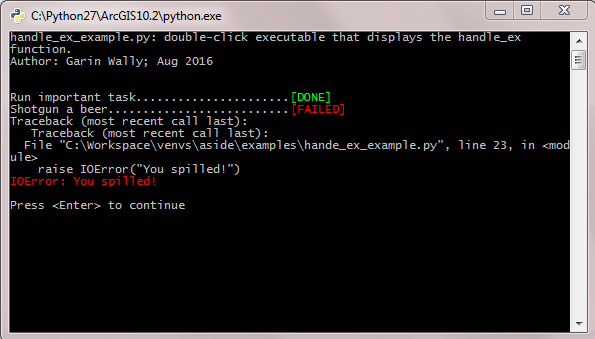
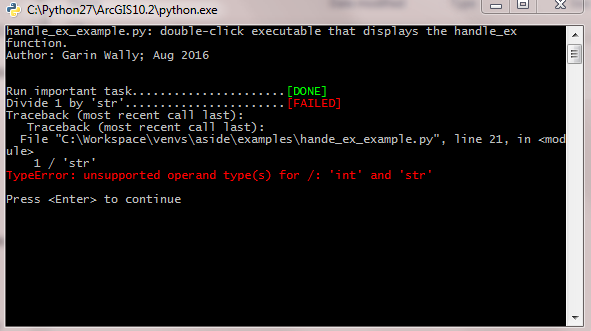
readme needs improvement

Changed region(s): [[0.0, 0.0, 1.0, 1.0]]

diff --git a/examples/status_example.py b/examples/status_example.py
@@ -11,15 +11,15 @@ from aside import status, status_process, wait
 
 print(__doc__)
 
-status.write("Imporing Wayne Campbell...")
+status.write("Party on magenta 'excellent'...")
 sleep(2)
-status.custom("Excellent", "magenta")
+status.custom("Excellent!", "magenta")
 
-status.write("Cha!")
+status.write("Cha! Standard success...")
 status.success()
 
 
-status.custom("Sha-WING", "cyan")
+status.custom("custom Sha-WING status", "cyan")
 
 @status_process
 def stairway():

diff --git a/examples/hande_ex_example.py b/examples/hande_ex_example.py
@@ -16,10 +16,10 @@ status.write("Run important task...")
 sleep(2)
 status.success()
 
-status.write("Shotgun a beer...")
-status.failure()
-
 try:
-    raise IOError("You spilled!")
-except IOError:
+    status.write("Divide 1 by 'str'...")
+    1 / 'str'
+    status.success()
+except:
+    status.failure()
     handle_ex()

diff --git a/README.rst b/README.rst
@@ -6,7 +6,8 @@ aside is a package for displaying nice shell messages when processes are being a
 Specifically, this package is designed for scripts which are executed by double-clicking.
 
 When created double-click executable Python source code that just closes whenever it feels like it,
-it might be useful to hang the process so the user can see what happened. Queue the wait() and handle_ex()
-functions:
+it might be useful to hang the process so the user can see what happened. The wait() and handle_ex()
+functions hang the process until the user hits the return key. See the handle_ex_example.py and handle_ex.png
+screenshot.
 
-.. handle_ex:: screenshots/handle_ex.png
+
